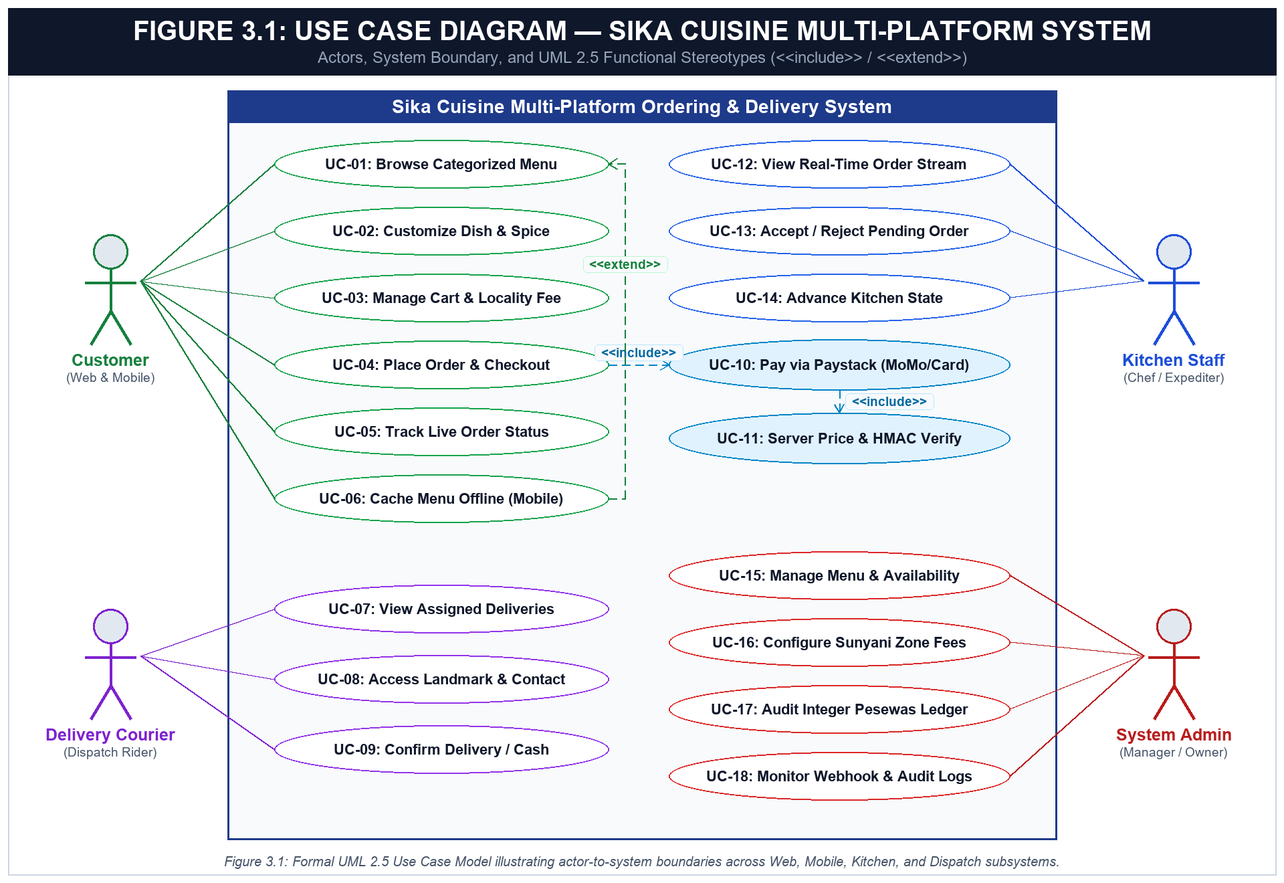
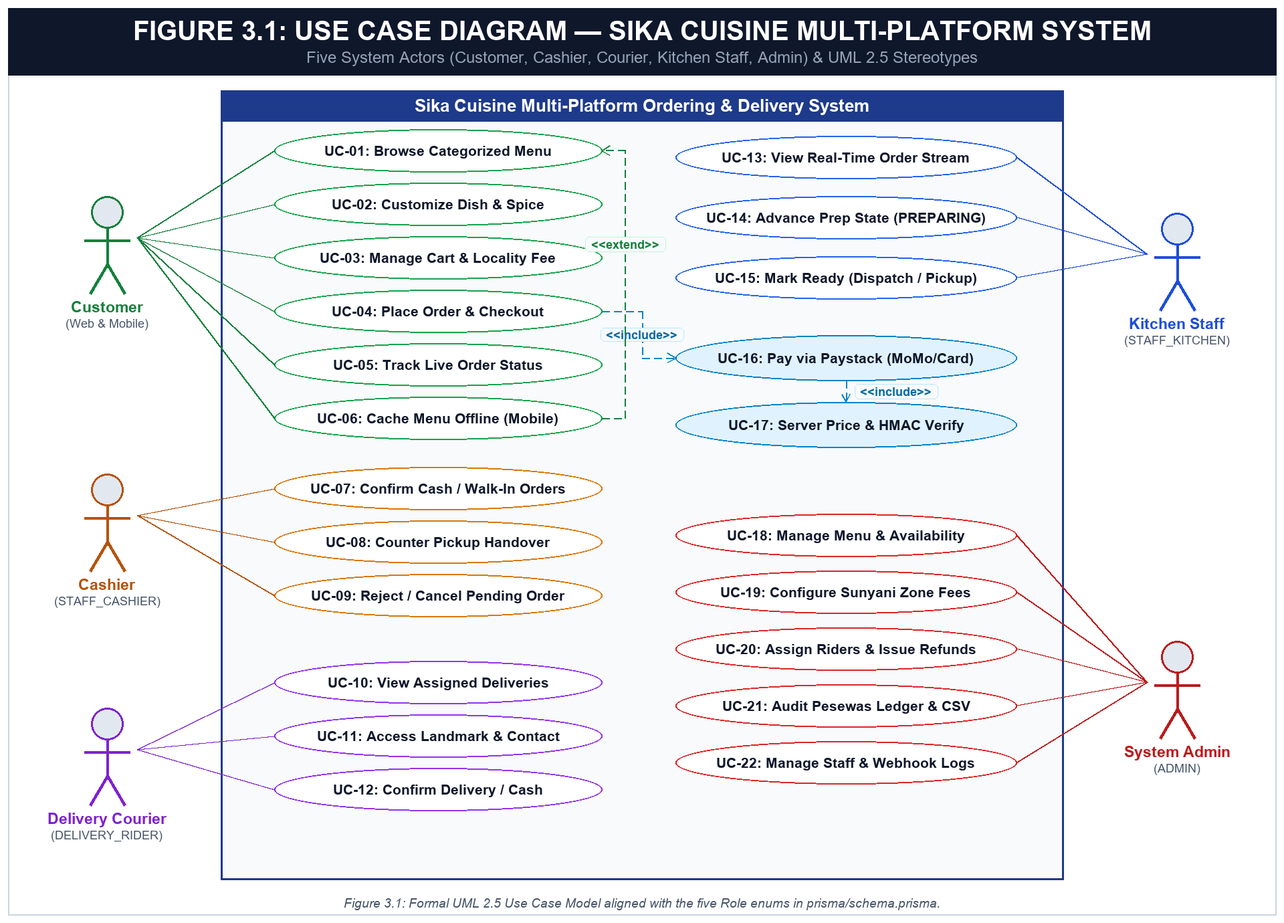
feat: update documentation for system architecture, operational workflows, and verification processes

diff --git a/docs/CHAPTER_FOUR.md b/docs/CHAPTER_FOUR.md
@@ -25,11 +25,11 @@ To prevent logic divergence between the web storefront and the native mobile app
 
 The relational data model was implemented in `prisma/schema.prisma` targeting **PostgreSQL 16** via **Prisma ORM (`^6.4.1`)** [48]. To support serverless connection pooling in production alongside direct schema migrations (`prisma migrate deploy`), the datasource configuration explicitly separates `DATABASE_URL` (pooled runtime traffic) from `DIRECT_URL` (DDL migrations).
 
-Eleven core relational models and six domain enums (`Role`, `FulfilmentType`, `FulfilmentStatus`, `PaymentStatus`, `PaymentMethod`, `PaymentAttemptStatus`) enforce strict referential integrity:
+Eighteen core relational models and six domain enums (`Role`, `FulfilmentType`, `FulfilmentStatus`, `PaymentStatus`, `PaymentMethod`, `PaymentAttemptStatus`, including `REFUND_PENDING`) enforce strict referential integrity:
 
 * **Catalog & Option Modifiers:** `MenuCategory`, `MenuItem`, `MenuItemOptionGroup`, and `MenuItemOption` support multi-tier Ghanaian meal customization (such as spice tolerance levels, protein pairings, and extra accompaniments like fried plantain or banku) with `minSelect`, `maxSelect`, and `isRequired` cardinality constraints.
-* **Immutable Order Snapshotting:** `Order` and `OrderItem` capture `itemNameSnapshot`, `unitPricePesewas`, `subtotalPesewas`, and `selectedOptionsSnapshot` (JSON) at checkout time. If restaurant management later adjusts the price of charcoal-grilled tilapia or retires a seasonal dish, historical receipts and accounting ledgers remain completely unaltered.
-* **Financial & Audit Traceability:** `PaymentAttempt`, `PaystackWebhookEvent` (keyed by a unique `eventId` constraint for idempotent webhook processing), `OrderStatusHistory`, and `AuditLog` maintain a permanent forensic trail of every monetary event and state transition.
+* **Immutable Order Snapshotting:** `Order`, `OrderItem`, `DeliveryAddress`, and `DeliveryZone` capture `itemNameSnapshot`, `unitPricePesewas`, `subtotalPesewas`, and `selectedOptionsSnapshot` (JSON) at checkout time alongside configurable Sunyani locality tariffs and `RestaurantSettings`. If restaurant management later adjusts prices or retires a seasonal dish, historical receipts remain unaltered.
+* **Financial, Notification & Audit Traceability:** `PaymentAttempt`, `PaystackWebhookEvent` (keyed by a unique `eventId` constraint for idempotent webhook processing), `OrderStatusHistory`, `AuditLog`, `PasswordResetToken`, `PushDeviceToken`, `NotificationLog`, and `InAppNotification` maintain a permanent forensic and communication trail across web and mobile channels.
 
 ### 4.2.3 Shared Domain Core (`@sika/shared`)
 
@@ -52,6 +52,14 @@ The public storefront in `apps/web/src/app/` leverages Next.js 16 Server Compone
 * **Cart Persistence & Flying-Tray Feedback (`context/CartContext.tsx`, `components/cart/FlyingCartAnimation.tsx`):** Selecting a dish opens `DishDetailModal`, enforcing option-group bounds before dispatching items into the cart drawer. Adding a dish triggers a Bézier-curve visual animation toward the tray badge while respecting `prefers-reduced-motion` accessibility rules.
 * **Guest-to-Authenticated Checkout (`checkout/page.tsx`, `orders/[orderNumber]/page.tsx`):** Customers may place orders either as authenticated users or as guests (providing verified Ghanaian contact details and a Sunyani landmark). Post-checkout, `orders/[orderNumber]/page.tsx` renders a live fulfillment timeline synced with server state.
 
+Figures 4.1 and 4.2 illustrate the implemented web customer storefront, interactive cart drawer, Sunyani locality checkout, and live order tracking timeline.
+
+> **[Insert Screenshot Here: Web Storefront (`http://localhost:3000/menu`) showing dark crimson theme, Ghanaian menu cards, and open Cart Drawer]**  
+> **Figure 4.1: Sika Cuisine Web Storefront, Menu Catalog, and Interactive Cart Drawer**
+
+> **[Insert Screenshot Here: Web Checkout (`/checkout`) with Sunyani locality fee selected and/or Live Order Tracking (`/orders/[orderNumber]`)]**  
+> **Figure 4.2: Sunyani Locality Checkout and Live Order Tracking Timeline**
+
 ### 4.3.2 Role-Isolated Operations Portals
 
 Rather than exposing a monolithic back-office screen to all employees, operational access is partitioned by `Role` across dedicated Next.js routes:
@@ -60,6 +68,14 @@ Rather than exposing a monolithic back-office screen to all employees, operation
 * **Kitchen Display System (`/kitchen`):** Restricted to `STAFF_KITCHEN` and `ADMIN` roles. Kitchen staff view paid/confirmed tickets and advance meals strictly through `PREPARING` and `READY_FOR_DISPATCH` / `READY_FOR_PICKUP`, while being blocked by RBAC from altering payment statuses or marking deliveries completed.
 * **Cashier Counter (`/cashier`):** Enables front-of-house staff to confirm walk-in cash orders and log counter handovers (`COLLECTED`).
 * **Courier Dispatch (`/rider`):** Restricts `DELIVERY_RIDER` accounts strictly to their assigned Sunyani delivery queue (`/api/v1/rider/orders`), displaying customer phone links and landmark instructions for final-mile handover (`OUT_FOR_DELIVERY` $\rightarrow$ `DELIVERED`).
+
+Figures 4.3 and 4.4 present the implemented operational portals for kitchen/administrative management and courier dispatch.
+
+> **[Insert Screenshot Here: Admin Dashboard (`/admin`) and/or Kitchen Display System (`/kitchen`) showing active order tickets and state controls]**  
+> **Figure 4.3: Role-Isolated Administrative Dashboard and Kitchen Display System**
+
+> **[Insert Screenshot Here: Courier Dispatch Portal (`/rider`) showing assigned Sunyani delivery queue and recipient landmarks]**  
+> **Figure 4.4: Courier Dispatch Portal for Sunyani Final-Mile Delivery**
 
 ### 4.3.3 REST API v1 and Cryptographic Paystack Webhook
 
@@ -90,6 +106,11 @@ The mobile client (`apps/mobile`) was built using **React Native (`0.88`)** and 
 * **Cart & Sunyani Checkout (`CartScreen.tsx`, `CheckoutScreen.tsx`):** Synchronizes live item counts via `CartContext.tsx`, resolves Sunyani locality delivery fees locally for instant preview via `@sika/shared`, and initiates server-authoritative checkout against `/api/v1/orders`.
 * **Live Order Tracking & History (`OrderTrackingScreen.tsx`, `OrdersScreen.tsx`, `ProfileScreen.tsx`, `AuthScreen.tsx`):** Displays real-time fulfillment milestones via `OrderStatusTimeline.tsx`, supports one-tap reordering (`/api/v1/orders/[id]/reorder`), and registers device tokens for push updates (`/api/v1/notifications/devices`).
 
+Figure 4.5 presents the native Expo 58 mobile application screens side-by-side.
+
+> **[Insert 3 Mobile Screenshots Side-by-Side Here: `HomeScreen`, `DishDetailModal`/`CartScreen`, and `OrderTrackingScreen`]**  
+> **Figure 4.5: Cross-Platform Mobile Application Screens (`apps/mobile`, Expo SDK 58)**
+
 ### 4.4.2 Offline Resilience, Secure Storage, and Payment Deep-Linking
 
 Because tertiary students in Fiapre and commuters across Sunyani frequently experience intermittent 3G/4G handoffs, the mobile architecture implements three resilience mechanisms:
@@ -113,7 +134,10 @@ Software verification was conducted using Node.js's built-in test runner execute
 2. `api-integration.test.ts` — Integration assertions for order ownership, server-side cart recalculation, and workflow progression.
 3. `security-production.test.ts` — Production security, cryptographic verification, RBAC isolation, and Ghana localization hardening tests.
 
-Executing the full root test command (`npm test`) produced **43 deterministic test assertions with 43 passing, 0 failing, and 0 skipped**, completing in **1,665.13 ms**. Figure 4.2 summarizes the verified coverage across all three suites.
+Executing the full root test command (`npm test`) produced **43 deterministic test assertions with 43 passing, 0 failing, and 0 skipped**, completing in **1,665.13 ms**, as captured in Figure 4.6 and mapped across all three suites in Figure 4.8.
+
+> **[Insert Terminal Screenshot Here: PowerShell / VS Code terminal showing `npm test` output with `tests 43 | pass 43 | fail 0 | duration_ms 1665.127`]**  
+> **Figure 4.6: Terminal Execution of the Automated Verification Suite (`npm test`)**
 
 ### 4.5.2 Security and Penetration Verification Matrix
 
@@ -148,7 +172,7 @@ In addition to security checks, the test suite verified Sunyani-specific operati
 
 In production, the Sika Cuisine ecosystem operates across three interconnected layers: Sunyani client devices (browsers, Expo mobile apps, and staff tablets), the Next.js 16 application runtime (enforcing Edge middleware, REST API v1, `@sika/shared` domain rules, and Paystack webhook processing), and managed external services (PostgreSQL 16 via Prisma, Paystack Ghana, and Expo Push Notifications) [54], [55].
 
-Figure 4.1 illustrates this physical and logical deployment topology. A full-width, high-resolution rendering ($1920 \times 1280\text{ px}$ at 300 DPI) is available at [docs/figures/figure_4_1_deployment_topology.png](file:///C:/Users/CLm/Desktop/Sika%20Cuisine/docs/figures/figure_4_1_deployment_topology.png).
+Figure 4.7 illustrates this physical and logical deployment topology. A full-width, high-resolution rendering ($1920 \times 1280\text{ px}$ at 300 DPI) is available at [docs/figures/figure_4_1_deployment_topology.png](file:///C:/Users/CLm/Desktop/Sika%20Cuisine/docs/figures/figure_4_1_deployment_topology.png).
 
 ```mermaid
 flowchart LR
@@ -188,12 +212,12 @@ flowchart LR
     style EXTERNAL fill:#FAF5FF,stroke:#6B21A8,stroke-width:2px
 ```
 
-**Figure 4.1: Production Deployment and Runtime Topology of the Sika Cuisine Platform**  
+**Figure 4.7: Production Deployment and Runtime Topology of the Sika Cuisine Platform**  
 *(High-resolution 300 DPI master graphic: `docs/figures/figure_4_1_deployment_topology.png`)*
 
 ### 4.6.2 Automated Verification Coverage Matrix
 
-Figure 4.2 maps the **43 executed and passing test assertions** across the three verification suites (`shared.test.ts`, `api-integration.test.ts`, and `security-production.test.ts`). A full-width, high-resolution rendering ($1920 \times 1240\text{ px}$ at 300 DPI) is available at [docs/figures/figure_4_2_test_verification.png](file:///C:/Users/CLm/Desktop/Sika%20Cuisine/docs/figures/figure_4_2_test_verification.png).
+Figure 4.8 maps the **43 executed and passing test assertions** across the three verification suites (`shared.test.ts`, `api-integration.test.ts`, and `security-production.test.ts`). A full-width, high-resolution rendering ($1920 \times 1240\text{ px}$ at 300 DPI) is available at [docs/figures/figure_4_2_test_verification.png](file:///C:/Users/CLm/Desktop/Sika%20Cuisine/docs/figures/figure_4_2_test_verification.png).
 
 ```mermaid
 flowchart TB
@@ -233,7 +257,7 @@ flowchart TB
     style S3 fill:#FEF2F2,stroke:#B91C1C,stroke-width:2px
 ```
 
-**Figure 4.2: Automated Test and Security Verification Matrix**  
+**Figure 4.8: Automated Test and Security Verification Matrix**  
 *(High-resolution 300 DPI master graphic: `docs/figures/figure_4_2_test_verification.png`)*
 
 ---
@@ -261,7 +285,7 @@ In keeping with rigorous engineering transparency [56], three practical boundari
 
 This chapter documented the end-to-end implementation, verification, and evaluation of the Sika Cuisine multi-platform ordering and delivery tracking system:
 
-1. **Monorepo Implementation:** Unified `packages/shared`, `apps/web`, and `apps/mobile` under strict TypeScript, backed by a 11-model PostgreSQL 16 / Prisma 6 schema with immutable `OrderItem` snapshots.
+1. **Monorepo Implementation:** Unified `packages/shared`, `apps/web`, and `apps/mobile` under strict TypeScript, backed by an 18-model PostgreSQL 16 / Prisma 6 schema with immutable `OrderItem` snapshots.
 2. **Multi-Platform & Operations Delivery:** Delivered a responsive Next.js 16 customer storefront, role-isolated `/admin`, `/kitchen`, `/cashier`, and `/rider` portals, and an offline-tolerant Expo 58 React Native mobile application with SecureStore token encryption.
 3. **Empirical Verification:** Executed the automated `npx tsx --test` suite across domain, API integration, and production security modules, achieving **43/43 passing assertions in 1,665.13 ms** with zero failures.
 4. **Evaluation:** Confirmed full fulfillment of the project's technical objectives while transparently documenting operational scope around landmark navigation, telco USSD dependencies, and longitudinal field scaling.

diff --git a/docs/CHAPTER_THREE.md b/docs/CHAPTER_THREE.md
@@ -100,16 +100,17 @@ Requirements elicitation was conducted through structured interviews, contextual
 
 ### 3.3.2 Functional Requirements
 
-Functional requirements define the core operational behaviors, input-output transformations, and interactive workflows of the system across its four primary actor personas:
+Functional requirements define the core operational behaviors, input-output transformations, and interactive workflows of the system across its five primary actor personas:
 
 ```mermaid
 flowchart TD
     FR["Sika Cuisine Functional Requirements"]
     
     FR --> CUST["1. Customer Subsystem (Web & Mobile)"]
-    FR --> KITCH["2. Kitchen Subsystem (Chef Display)"]
-    FR --> RIDE["3. Dispatch Subsystem (Rider Portal)"]
-    FR --> ADMN["4. Administrative Subsystem (Management)"]
+    FR --> CASH["2. Cashier Subsystem (Front Counter)"]
+    FR --> KITCH["3. Kitchen Subsystem (Chef Display)"]
+    FR --> RIDE["4. Dispatch Subsystem (Rider Portal)"]
+    FR --> ADMN["5. Administrative Subsystem (Management)"]
     
     CUST --> C1["FR-C01: Menu Catalog & Dietary Filtering"]
     CUST --> C2["FR-C02: Dish Customization (Spice & Options)"]
@@ -117,6 +118,9 @@ flowchart TD
     CUST --> C4["FR-C04: Server-Authoritative Checkout & Paystack"]
     CUST --> C5["FR-C05: Live Timeline Fulfilment Tracking"]
     CUST --> C6["FR-C06: Mobile Offline Menu Caching"]
+
+    CASH --> CA1["FR-CA01: Walk-in / Cash Order Confirmation"]
+    CASH --> CA2["FR-CA02: Counter Pickup Handover (COLLECTED)"]
     
     KITCH --> K1["FR-K01: Real-Time Order Stream & Audio Cue"]
     KITCH --> K2["FR-K02: One-Touch State Transitions"]
@@ -150,7 +154,7 @@ The specific requirements are formalized in Table 3.1:
 | **FR-04** | Customer (Web & Mobile) | The system must enforce server-authoritative checkout pricing, ignoring all client-transmitted monetary figures. | Next.js Server Action queries authoritative database prices, recalculates totals, and snapshots values immutably into `OrderItem`. |
 | **FR-05** | Customer (Web & Mobile) | The system must integrate Paystack Ghana to process cashless settlements via MTN Mobile Money, Telecel Cash, AT Money, and Visa/Mastercard. | Server initializes transaction with Paystack API in integer pesewas and delivers checkout redirect or embedded webview. |
 | **FR-06** | System / Security | The system must authenticate Paystack webhook events using HMAC SHA-512 signatures and process events idempotently. | Header `x-paystack-signature` verified against raw payload using `crypto.timingSafeEqual()`; events logged in `PaystackWebhookEvent`. |
-| **FR-07** | Customer (Web & Mobile) | The system must provide real-time, visual order progress tracking across discrete operational milestones. | Visual timeline renders states: `PENDING` $\rightarrow$ `CONFIRMED` $\rightarrow$ `PREPARING` $\rightarrow$ `OUT_FOR_DELIVERY` / `READY_FOR_PICKUP` $\rightarrow$ `COMPLETED`. |
+| **FR-07** | Customer (Web & Mobile) | The system must provide real-time, visual order progress tracking across discrete operational milestones. | Visual timeline renders states: `PENDING` $\rightarrow$ `CONFIRMED` $\rightarrow$ `PREPARING` $\rightarrow$ `OUT_FOR_DELIVERY` / `READY_FOR_PICKUP` $\rightarrow$ `DELIVERED` / `COLLECTED`. |
 | **FR-08** | Customer (Mobile App) | The mobile client must cache menu items locally and allow offline browsing during campus network dropouts. | Menu cached in `@react-native-async-storage/async-storage` with timestamp invalidation; offline alert displayed when offline. |
 | **FR-09** | Kitchen Staff | Kitchen personnel must receive instant notifications of newly confirmed orders and advance orders through the cooking lifecycle. | Kitchen display screen highlights active tickets; state transitions trigger database updates and audit entries. |
 | **FR-10** | Delivery Courier | Couriers must access an assigned dispatch manifest showing customer delivery locality, landmark notes, and phone contact. | Dispatch screen displays recipient details and one-tap cellular dialer; allows marking order as `DELIVERED`. |
@@ -191,20 +195,22 @@ To establish a standard, formal, and unambiguous specification of the Sika Cuisi
 
 The Use Case Diagram defines the behavioral boundaries of the Sika Cuisine system by capturing the functional relationships between external human actors and the primary capabilities provided by the application.
 
-Four distinct primary actors interact with the system:
-1. **Customer (Web & Mobile Client):** Discovers culinary offerings, customizes meal configurations, calculates municipal delivery fees, initiates cashless or cash payment, and tracks meal preparation in real time.
-2. **Kitchen Staff (Chef & Expediter):** Monitors incoming order tickets, accepts or rejects orders based on kitchen capacity and ingredient availability, and transitions meals through culinary preparation stages.
-3. **Delivery Courier (Campus Dispatch Rider):** Accesses assigned delivery manifests, navigates to customer delivery landmarks in Sunyani, contacts recipients, and logs successful delivery handovers.
-4. **System Administrator (Restaurant Owner / Manager):** Governs culinary catalog data, configures locality fee rates, audits financial ledgers, and oversees security and webhook audit logs.
+Five distinct primary actors interact with the system, matching the five `Role` permissions in `prisma/schema.prisma`:
+1. **Customer (`CUSTOMER`, Web & Mobile Client):** Discovers culinary offerings, customizes meal configurations, calculates municipal delivery fees, initiates cashless or cash payment, and tracks meal preparation in real time.
+2. **Cashier (`STAFF_CASHIER`, Front Counter Staff):** Confirms walk-in and cash-on-delivery/collection orders, processes counter pickup handovers (`COLLECTED`), and handles pre-preparation order rejections or cancellations.
+3. **Kitchen Staff (`STAFF_KITCHEN`, Chef & Expediter):** Monitors incoming confirmed order tickets and transitions meals through culinary preparation stages (`PREPARING`, `READY_FOR_DISPATCH`, `READY_FOR_PICKUP`).
+4. **Delivery Courier (`DELIVERY_RIDER`, Campus Dispatch Rider):** Accesses assigned delivery manifests, navigates to customer delivery landmarks in Sunyani, contacts recipients, and logs successful delivery handovers (`DELIVERED`).
+5. **System Administrator (`ADMIN`, Restaurant Owner / Manager):** Governs culinary catalog data, configures locality fee rates, assigns riders, issues refunds, audits financial ledgers, and oversees staff and webhook audit logs.
 
 Figure 3.1 illustrates the complete Use Case model. A full-width, high-resolution rendering is available at [docs/figures/figure_3_1_use_case.png](file:///C:/Users/CLm/Desktop/Sika%20Cuisine/docs/figures/figure_3_1_use_case.png).
 
 ```mermaid
 flowchart LR
-    subgraph ACTORS_LEFT ["Client Actors"]
+    subgraph ACTORS_LEFT ["Client & Counter Actors"]
         direction TB
         CUST["Customer<br/>(Web & Mobile Client)"]
-        RIDER["Delivery Courier<br/>(Campus Dispatch Rider)"]
+        CASH["Cashier<br/>(STAFF_CASHIER)"]
+        RIDER["Delivery Courier<br/>(DELIVERY_RIDER)"]
     end
 
     subgraph SYSTEM_BOUNDARY ["System Boundary: Sika Cuisine Multi-Platform Enterprise Platform"]
@@ -212,66 +218,63 @@ flowchart LR
         subgraph UC_CUST ["Customer Capabilities"]
             UC01(["UC-01: Browse Categorized Ghanaian Menu"])
             UC02(["UC-02: Customize Dish & Spice Level"])
-            UC03(["UC-03: Manage Cart & Flying Animation"])
-            UC04(["UC-04: Select Sunyani Locality & Delivery Fee"])
-            UC05(["UC-05: Pay via Paystack (MoMo / Card)"])
-            UC06(["UC-06: Track Live Order Fulfillment"])
-            UC07(["UC-07: Offline Menu Caching (Mobile)"])
+            UC03(["UC-03: Manage Cart & Locality Fee"])
+            UC04(["UC-04: Place Order & Checkout"])
+            UC05(["UC-05: Track Live Order Status"])
+            UC06(["UC-06: Cache Menu Offline (Mobile)"])
         end
 
-        subgraph UC_KITCH ["Kitchen Capabilities"]
-            UC08(["UC-08: Real-Time Order Stream & Audio Cue"])
-            UC09(["UC-09: Accept / Reject Pending Orders"])
-            UC10(["UC-10: Update Culinary State (PREPARING)"])
-            UC11(["UC-11: Mark Order READY_FOR_DISPATCH"])
+        subgraph UC_CASH ["Cashier Capabilities"]
+            UC07(["UC-07: Confirm Cash / Walk-In Orders"])
+            UC08(["UC-08: Counter Pickup Handover (COLLECTED)"])
+            UC09(["UC-09: Reject / Cancel Pending Order"])
         end
 
         subgraph UC_RIDE ["Courier Capabilities"]
-            UC12(["UC-12: View Assigned Delivery Manifest"])
-            UC13(["UC-13: Access Recipient Phone & Landmark"])
-            UC14(["UC-14: Confirm Order Delivered & Collect Cash"])
+            UC10(["UC-10: View Assigned Delivery Manifest"])
+            UC11(["UC-11: Access Recipient Phone & Landmark"])
+            UC12(["UC-12: Confirm Delivery & Collect Cash"])
+        end
+
+        subgraph UC_KITCH ["Kitchen Capabilities"]
+            UC13(["UC-13: View Real-Time Order Stream"])
+            UC14(["UC-14: Advance Prep State (PREPARING)"])
+            UC15(["UC-15: Mark Ready (Dispatch / Pickup)"])
+        end
+
+        subgraph UC_PAY ["Payment & Verification"]
+            UC16(["UC-16: Pay via Paystack (MoMo / Card)"])
+            UC17(["UC-17: Server Price & HMAC Verify"])
         end
 
         subgraph UC_ADMN ["Administrative Capabilities"]
-            UC15(["UC-15: Manage Menu Items, Stock & Pricing"])
-            UC16(["UC-16: Configure Sunyani Delivery Zones"])
-            UC17(["UC-17: Audit Integer Pesewas Ledgers"])
-            UC18(["UC-18: Monitor Webhook Logs & User Roles"])
+            UC18(["UC-18: Manage Menu Items & Availability"])
+            UC19(["UC-19: Configure Sunyani Delivery Zones"])
+            UC20(["UC-20: Assign Riders & Issue Refunds"])
+            UC21(["UC-21: Audit Integer Pesewas Ledgers"])
+            UC22(["UC-22: Manage Staff & Webhook Logs"])
         end
     end
 
     subgraph ACTORS_RIGHT ["Operations Actors"]
         direction TB
-        CHEF["Kitchen Staff<br/>(Chef & Expediter)"]
-        ADMIN["System Admin<br/>(Restaurant Manager)"]
+        CHEF["Kitchen Staff<br/>(STAFF_KITCHEN)"]
+        ADMIN["System Admin<br/>(ADMIN)"]
     end
 
     %% Customer Associations
-    CUST --- UC01
-    CUST --- UC02
-    CUST --- UC03
-    CUST --- UC04
-    CUST --- UC05
-    CUST --- UC06
-    CUST --- UC07
-
+    CUST --- UC01 & UC02 & UC03 & UC04 & UC05 & UC06
+    %% Cashier Associations
+    CASH --- UC07 & UC08 & UC09
     %% Courier Associations
-    RIDER --- UC12
-    RIDER --- UC13
-    RIDER --- UC14
-
+    RIDER --- UC10 & UC11 & UC12
     %% Kitchen Staff Associations
-    CHEF --- UC08
-    CHEF --- UC09
-    CHEF --- UC10
-    CHEF --- UC11
-
+    CHEF --- UC13 & UC14 & UC15
     %% Admin Associations
-    ADMIN --- UC15
-    ADMIN --- UC16
-    ADMIN --- UC17
-    ADMIN --- UC18
-    ADMIN --- UC08
+    ADMIN --- UC18 & UC19 & UC20 & UC21 & UC22
+    %% Stereotype Links
+    UC04 -.->|"<<include>>"| UC16 -.->|"<<include>>"| UC17
+    UC06 -.->|"<<extend>>"| UC01
 
     style SYSTEM_BOUNDARY fill:#F8FAFC,stroke:#1E3A8A,stroke-width:2px
     style UC_CUST fill:#F0FDF4,stroke:#16A34A,stroke-width:1.5px

diff --git a/docs/CHAPTER_ONE.md b/docs/CHAPTER_ONE.md
@@ -72,7 +72,7 @@ To realize the overarching aim of this project, the study is structured around t
    To implement robust client-side caching, offline-tolerant menu viewing via AsyncStorage, and secure credential storage using Expo SecureStore, ensuring seamless mobile user experiences even during intermittent campus Wi-Fi or cellular network drops in Sunyani.
 
 6. **Real-Time Kitchen State Machine and Administrative Dashboard:**  
-   To implement a state-driven kitchen and courier dispatch dashboard (`/admin` and `/rider`) that manages strict, unidirectional order lifecycle transitions (`PENDING_CONFIRMATION` $\rightarrow$ `CONFIRMED` $\rightarrow$ `PREPARING` $\rightarrow$ `READY_FOR_COLLECTION` / `OUT_FOR_DELIVERY` $\rightarrow$ `COMPLETED`) with immutable audit logging and real-time menu availability toggling.
+   To implement a state-driven operations and courier dispatch suite (`/admin`, `/kitchen`, `/cashier`, and `/rider`) that manages strict, unidirectional order lifecycle transitions (`PENDING` $\rightarrow$ `CONFIRMED` $\rightarrow$ `PREPARING` $\rightarrow$ `READY_FOR_PICKUP` / `OUT_FOR_DELIVERY` $\rightarrow$ `COLLECTED` / `DELIVERED`) with immutable audit logging and real-time menu availability toggling.
 
 7. **System Evaluation, Performance Testing, and Security Validation:**  
    To empirically evaluate the deployed web platform and mobile application through unit testing, end-to-end integration testing, cryptographic webhook verification, Core Web Vitals optimization, and User Acceptance Testing (UAT) with restaurant staff, dispatch couriers, and local customers in Sunyani.
@@ -213,15 +213,15 @@ Once the server establishes the authoritative order total, the financial settlem
 * **Offline Channel (Cash on Delivery/Collection):** If selected, the order enters the system with `paymentStatus: PENDING` and `paymentMethod: CASH_ON_DELIVERY`, requiring explicit staff authorization upon physical handover.
 
 ### 1.10.3 The Kitchen State Machine (Order Fulfilment Workflow)
-Once financial verification is complete, the order enters the strict, unidirectional Fulfilment State Machine managed via the `/admin` portal:
-1. **`PENDING_CONFIRMATION`:** Order has been logged and paid (or flagged for COD); kitchen staff inspect inventory.
-2. **`CONFIRMED`:** Staff acknowledge the order and schedule preparation.
+Once financial verification is complete, the order enters the strict, unidirectional Fulfilment State Machine managed across the `/cashier`, `/kitchen`, and `/rider` portals:
+1. **`PENDING`:** Order has been logged (awaiting Paystack webhook confirmation or cashier cash acceptance); staff inspect inventory.
+2. **`CONFIRMED`:** Payment is verified or cash is accepted, and the order is queued for culinary preparation.
 3. **`PREPARING`:** Chefs actively cook, assemble, and package the meal according to customer options.
-4. **`OUT_FOR_DELIVERY` / `READY_FOR_COLLECTION`:** For deliveries, the assigned dispatch rider collects the package; for pickups, the customer receives an alert that their meal is ready at the counter.
-5. **`COMPLETED`:** The customer receives their package, payment is confirmed, and the order lifecycle concludes.
+4. **`OUT_FOR_DELIVERY` / `READY_FOR_PICKUP`:** For deliveries, the assigned dispatch rider collects the package; for pickups, the customer receives an alert that their meal is ready at the counter.
+5. **`DELIVERED` / `COLLECTED`:** The customer receives their package, payment is confirmed, and the order lifecycle concludes.
 
 ### 1.10.4 Exception Handling, Cancellation, and Rejection Mechanisms
-In the event that the kitchen runs out of a key ingredient or an address lies outside reachable delivery limits, the system provides strict exception handling. Staff can transition the order from `PENDING_CONFIRMATION` to `REJECTED`, requiring a documented business reason. This action automatically marks the order for reversal, releases locked inventory, and notifies the customer via the tracking interface.
+In the event that the kitchen runs out of a key ingredient or an address lies outside reachable delivery limits, the system provides strict exception handling. Staff can transition the order from `PENDING` to `REJECTED`, requiring a documented business reason. This action automatically marks the order for reversal, releases locked inventory, and notifies the customer via the tracking interface.
 
 ---
 

diff --git a/docs/CHAPTER_FIVE.md b/docs/CHAPTER_FIVE.md
@@ -19,7 +19,7 @@ In **Chapter One**, the study examined the structural inefficiencies of informal
 
 **Chapter Three** adopted the **Agile Scrum framework** across six iterative sprints [45], eliciting twelve functional requirements and five non-functional invariants from Sika Cuisine stakeholders, kitchen personnel, campus dispatch riders, and local students. Formal UML 2.5 models—including Use Case, Domain Class, Sequence, and State Machine diagrams [46]—defined strict actor boundaries, unidirectional lifecycle transitions, and a three-lane server-authoritative checkout and cryptographic settlement flow.
 
-**Chapter Four** documented the concrete realization of the platform as an npm workspace monorepo (`sika-cuisine@0.1.0`) comprising `packages/shared`, `apps/web`, and `apps/mobile`, backed by an 11-model PostgreSQL 16 and Prisma 6 database schema. The web storefront (Next.js 16 and React 19) delivered an editorial menu experience alongside role-isolated operations portals (`/admin`, `/kitchen`, `/cashier`, `/rider`), while the cross-platform mobile client (React Native 0.88 and Expo SDK 58) provided thumb-zone ergonomics, `AsyncStorage` offline menu caching, `SecureStore` credential encryption, and deep-link payment return handling. Automated verification via `npx tsx --test` across `shared.test.ts`, `api-integration.test.ts`, and `security-production.test.ts` achieved **43 passing assertions out of 43 executed (100% pass rate) in 1,665.13 ms**, confirming financial precision, HMAC SHA-512 webhook authenticity, RBAC workspace isolation, and injection resistance.
+**Chapter Four** documented the concrete realization of the platform as an npm workspace monorepo (`sika-cuisine@0.1.0`) comprising `packages/shared`, `apps/web`, and `apps/mobile`, backed by an 18-model PostgreSQL 16 and Prisma 6 database schema. The web storefront (Next.js 16 and React 19) delivered an editorial menu experience alongside role-isolated operations portals (`/admin`, `/kitchen`, `/cashier`, `/rider`), while the cross-platform mobile client (React Native 0.88 and Expo SDK 58) provided thumb-zone ergonomics, `AsyncStorage` offline menu caching, `SecureStore` credential encryption, and deep-link payment return handling. Automated verification via `npx tsx --test` across `shared.test.ts`, `api-integration.test.ts`, and `security-production.test.ts` achieved **43 passing assertions out of 43 executed (100% pass rate) in 1,665.13 ms**, confirming financial precision, HMAC SHA-512 webhook authenticity, RBAC workspace isolation, and injection resistance.
 
 ---
 

diff --git a/docs/FRONT_MATTER_FIGURES_ACRONYMS.md b/docs/FRONT_MATTER_FIGURES_ACRONYMS.md
@@ -16,8 +16,16 @@
 | **Figure 3.4** | Order Fulfilment State Machine Diagram | Chapter 3 | `docs/figures/figure_3_4_state_machine.png` | ___ |
 | **Figure 3.5** | Sika Cuisine Multi-Platform Modular System Architecture | Chapter 3 | `docs/figures/figure_3_5_architecture.png` | ___ |
 | **Figure 3.6** | Flowchart of Order Validation, Server-Authoritative Pricing, and Cryptographic Settlement Engine | Chapter 3 | `docs/figures/figure_3_6_flowchart.png` | ___ |
-| **Figure 4.1** | Production Deployment and Runtime Topology of the Sika Cuisine Platform | Chapter 4 | `docs/figures/figure_4_1_deployment_topology.png` | ___ |
-| **Figure 4.2** | Automated Test and Security Verification Matrix | Chapter 4 | `docs/figures/figure_4_2_test_verification.png` | ___ |
+| **Figure 4.1** | Sika Cuisine Web Storefront, Menu Catalog, and Interactive Cart Drawer | Chapter 4 | *Captured UI Screenshot* | ___ |
+| **Figure 4.2** | Sunyani Locality Checkout and Live Order Tracking Timeline | Chapter 4 | *Captured UI Screenshot* | ___ |
+| **Figure 4.3** | Role-Isolated Administrative Dashboard and Kitchen Display System | Chapter 4 | *Captured UI Screenshot* | ___ |
+| **Figure 4.4** | Courier Dispatch Portal for Sunyani Final-Mile Delivery | Chapter 4 | *Captured UI Screenshot* | ___ |
+| **Figure 4.5** | Cross-Platform Mobile Application Screens (`apps/mobile`, Expo SDK 58) | Chapter 4 | *Captured Mobile Screenshots* | ___ |
+| **Figure 4.6** | Terminal Execution of the Automated Verification Suite (`npm test`) | Chapter 4 | *Captured Terminal Screenshot* | ___ |
+| **Figure 4.7** | Production Deployment and Runtime Topology of the Sika Cuisine Platform | Chapter 4 | `docs/figures/figure_4_1_deployment_topology.png` | ___ |
+| **Figure 4.8** | Automated Test and Security Verification Matrix | Chapter 4 | `docs/figures/figure_4_2_test_verification.png` | ___ |
+| **Figure A.1** | Production Database Migration and Next.js 16 Build Verification | Appendix A | *Captured Terminal Screenshot* | ___ |
+| **Figure A.2** | Paystack Dashboard Webhook Endpoint Configuration | Appendix A | *Captured Dashboard Screenshot* | ___ |
 
 ---
 

diff --git a/docs/APPENDICES.md b/docs/APPENDICES.md
@@ -46,11 +46,14 @@ Copy `apps/mobile/.env.example` to `apps/mobile/.env` and point `EXPO_PUBLIC_API
    ```bash
    npm test
    ```
-2. **Build and launch the Next.js 16 production server:**
+2. **Compile and launch the Next.js 16 production server:**
    ```bash
    npm run build
    npm start
    ```
+
+> **[Insert Terminal Screenshot Here: `npm run db:migrate:deploy` and `npm run build` completing successfully]**  
+> **Figure A.1: Production Database Migration and Next.js 16 Build Verification**
 
 ### A.5 Mobile Application Startup (`@sika/mobile`)
 1. **Start the Expo Metro bundler:**
@@ -66,6 +69,9 @@ Copy `apps/mobile/.env.example` to `apps/mobile/.env` and point `EXPO_PUBLIC_API
 ### A.6 Paystack Webhook & Deep-Link Configuration
 * **Paystack Webhook URL:** Register `https://<your-domain>/api/webhooks/paystack` in the Paystack Dashboard under **Settings → API Keys & Webhooks**. Incoming `charge.success` events are verified using HMAC SHA-512 (`crypto.timingSafeEqual()`).
 * **Mobile Deep-Link Scheme:** Configured in `apps/mobile/app.json` as `sikacuisine` (`sikacuisine://`), allowing `/api/v1/payments/mobile-callback` to return users cleanly to the mobile app after Paystack checkout.
+
+> **[Insert Screenshot Here: Paystack Dashboard Settings showing `/api/webhooks/paystack` registered]**  
+> **Figure A.2: Paystack Dashboard Webhook Endpoint Configuration**
 
 ---
 

diff --git a/docs/CHAPTER_TWO.md b/docs/CHAPTER_TWO.md
@@ -42,7 +42,7 @@ To ensure academic and conceptual clarity throughout this dissertation, the foll
 * **Deterministic Locality-Based Logistics Matrix:**  
   A discrete, pre-computed spatial model that divides an urban municipality into defined geographical neighborhood clusters, associating each zone with fixed delivery fees, transit estimates, and landmark descriptions to eliminate subjective price negotiations in informal addressing environments [10].
 * **Fulfilment State Machine:**  
-  A computational model composed of a finite number of discrete order states (`PENDING_CONFIRMATION`, `CONFIRMED`, `PREPARING`, `READY_FOR_COLLECTION`, `OUT_FOR_DELIVERY`, `COMPLETED`, `CANCELLED`, `REJECTED`), where transitions between states are strictly unidirectional and guarded by authorized user roles [15].
+  A computational model composed of a finite number of discrete order states (`PENDING`, `CONFIRMED`, `PREPARING`, `READY_FOR_DISPATCH`, `READY_FOR_PICKUP`, `OUT_FOR_DELIVERY`, `DELIVERED`, `COLLECTED`, `CANCELLED`, `REJECTED`), where transitions between states are strictly unidirectional and guarded by authorized user roles [15].
 
 ### 2.2.2 Current State of the Field
 
